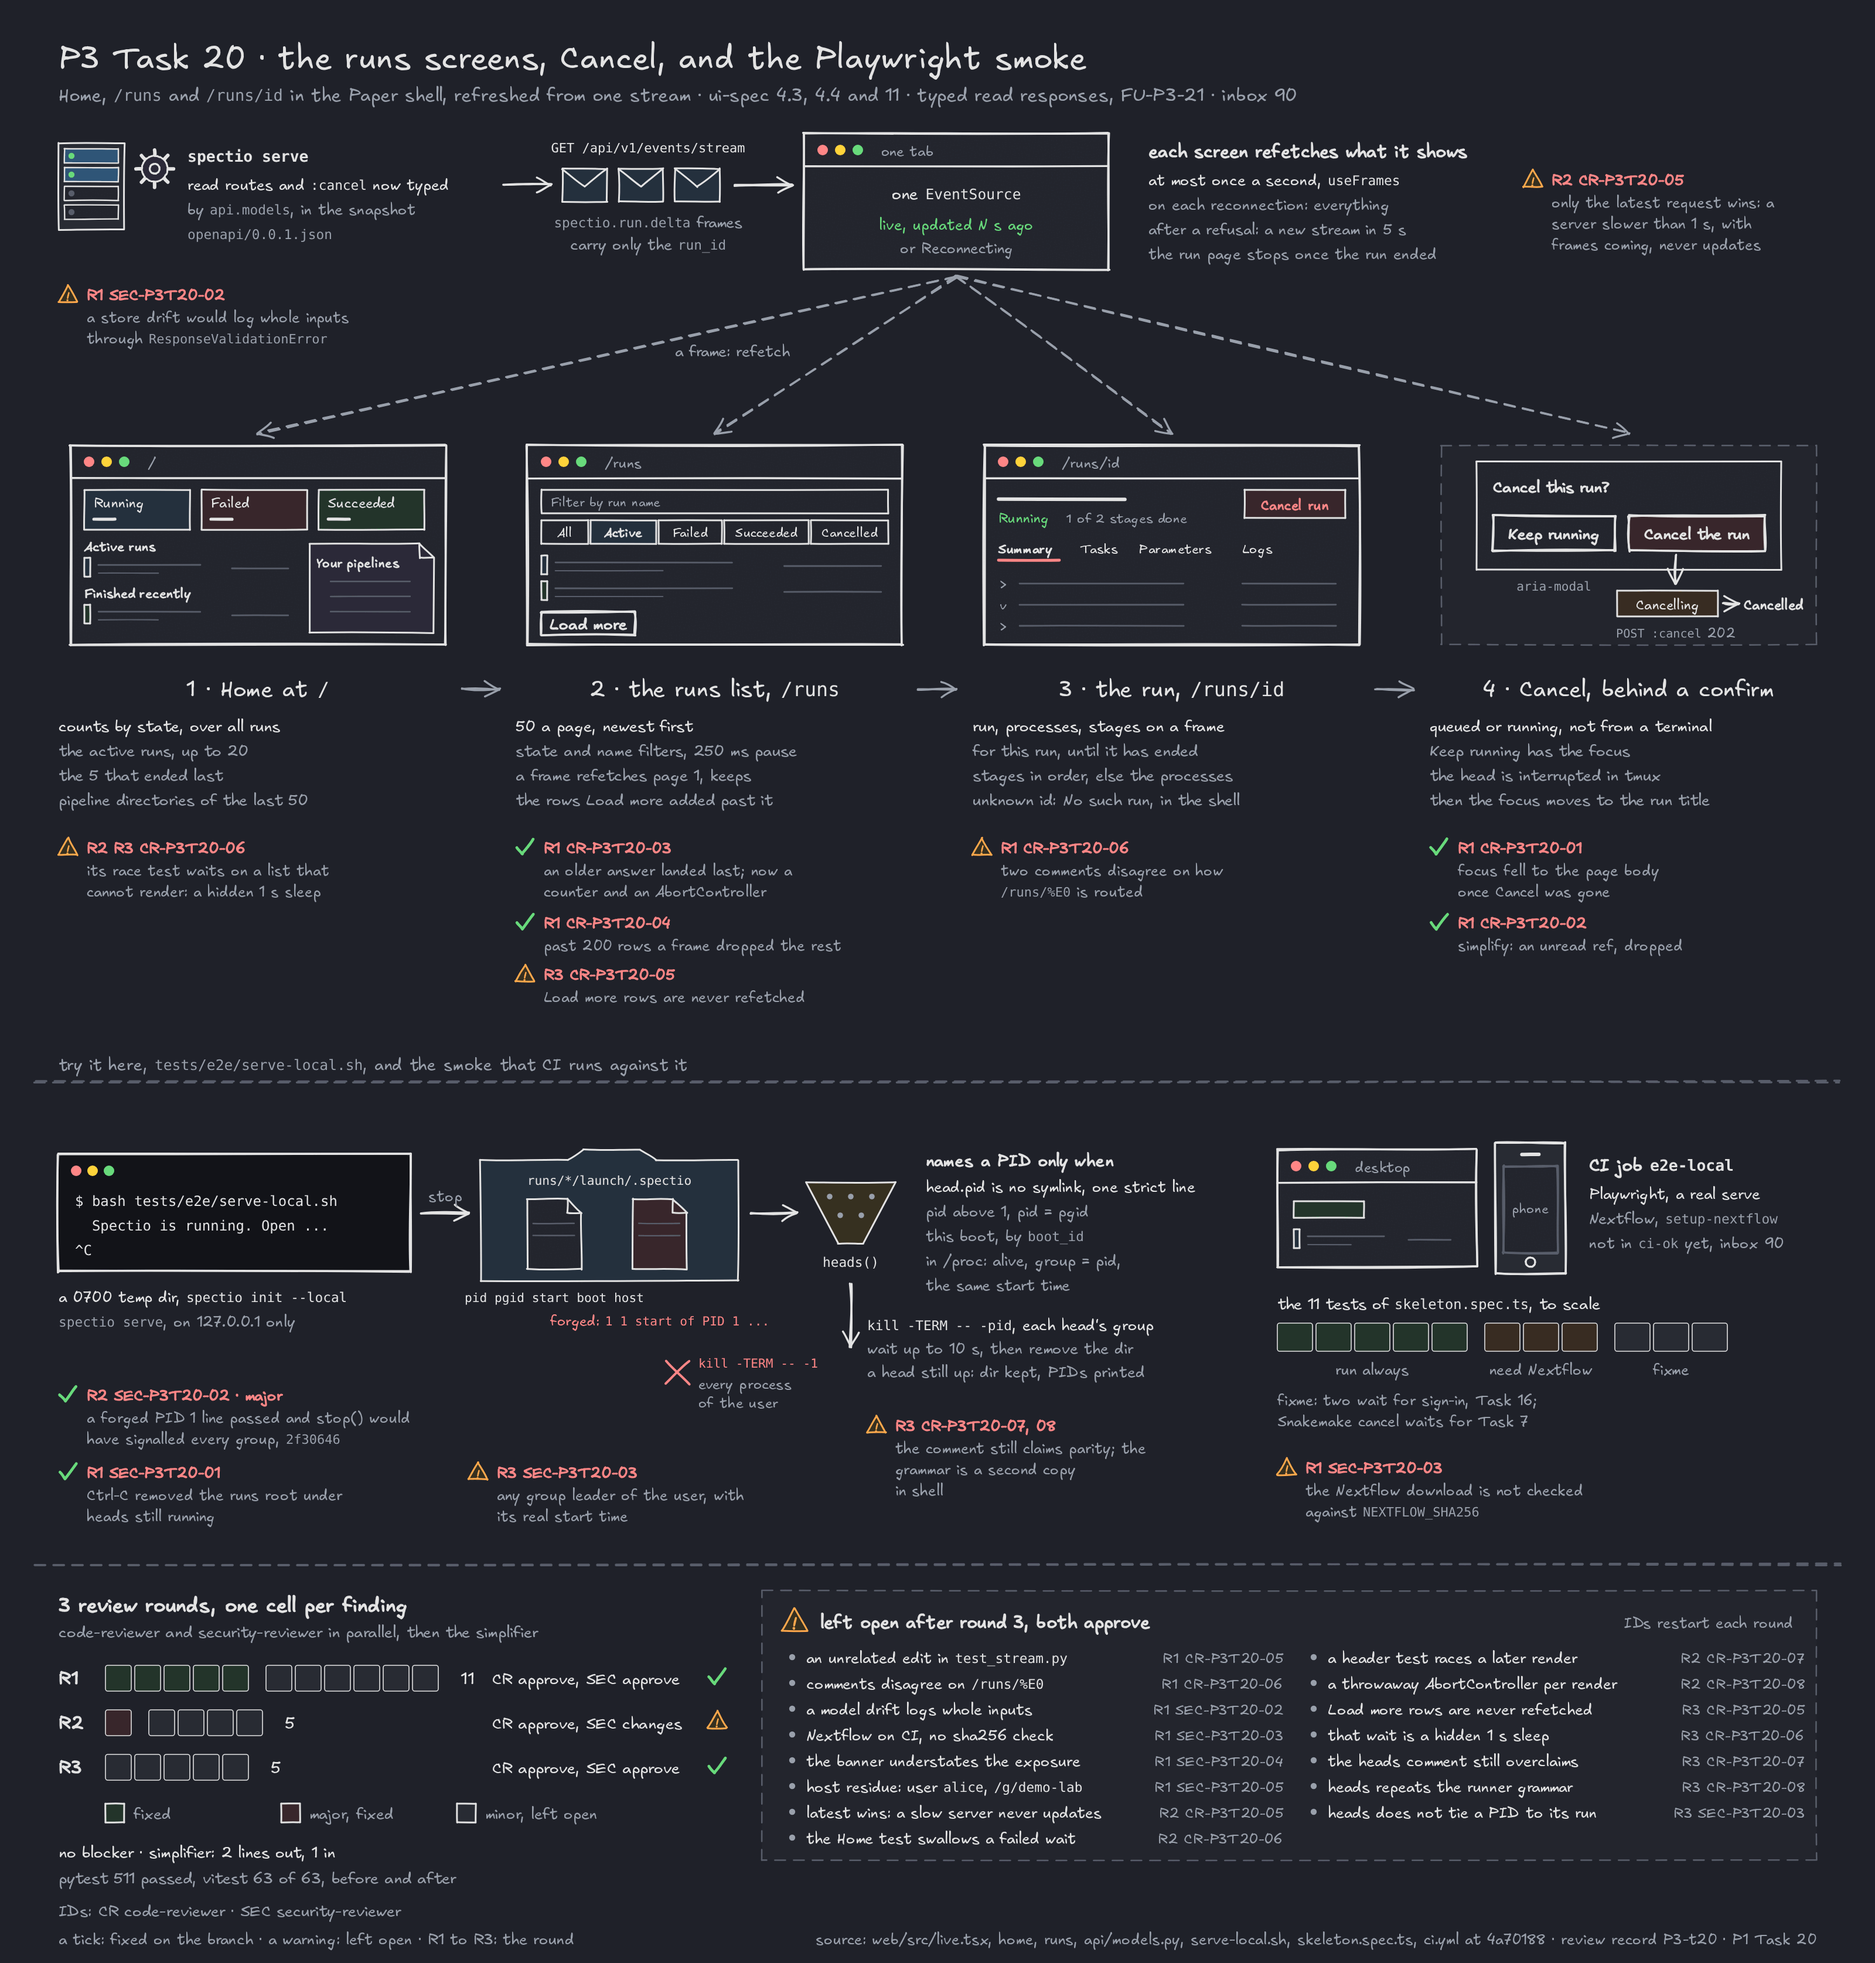
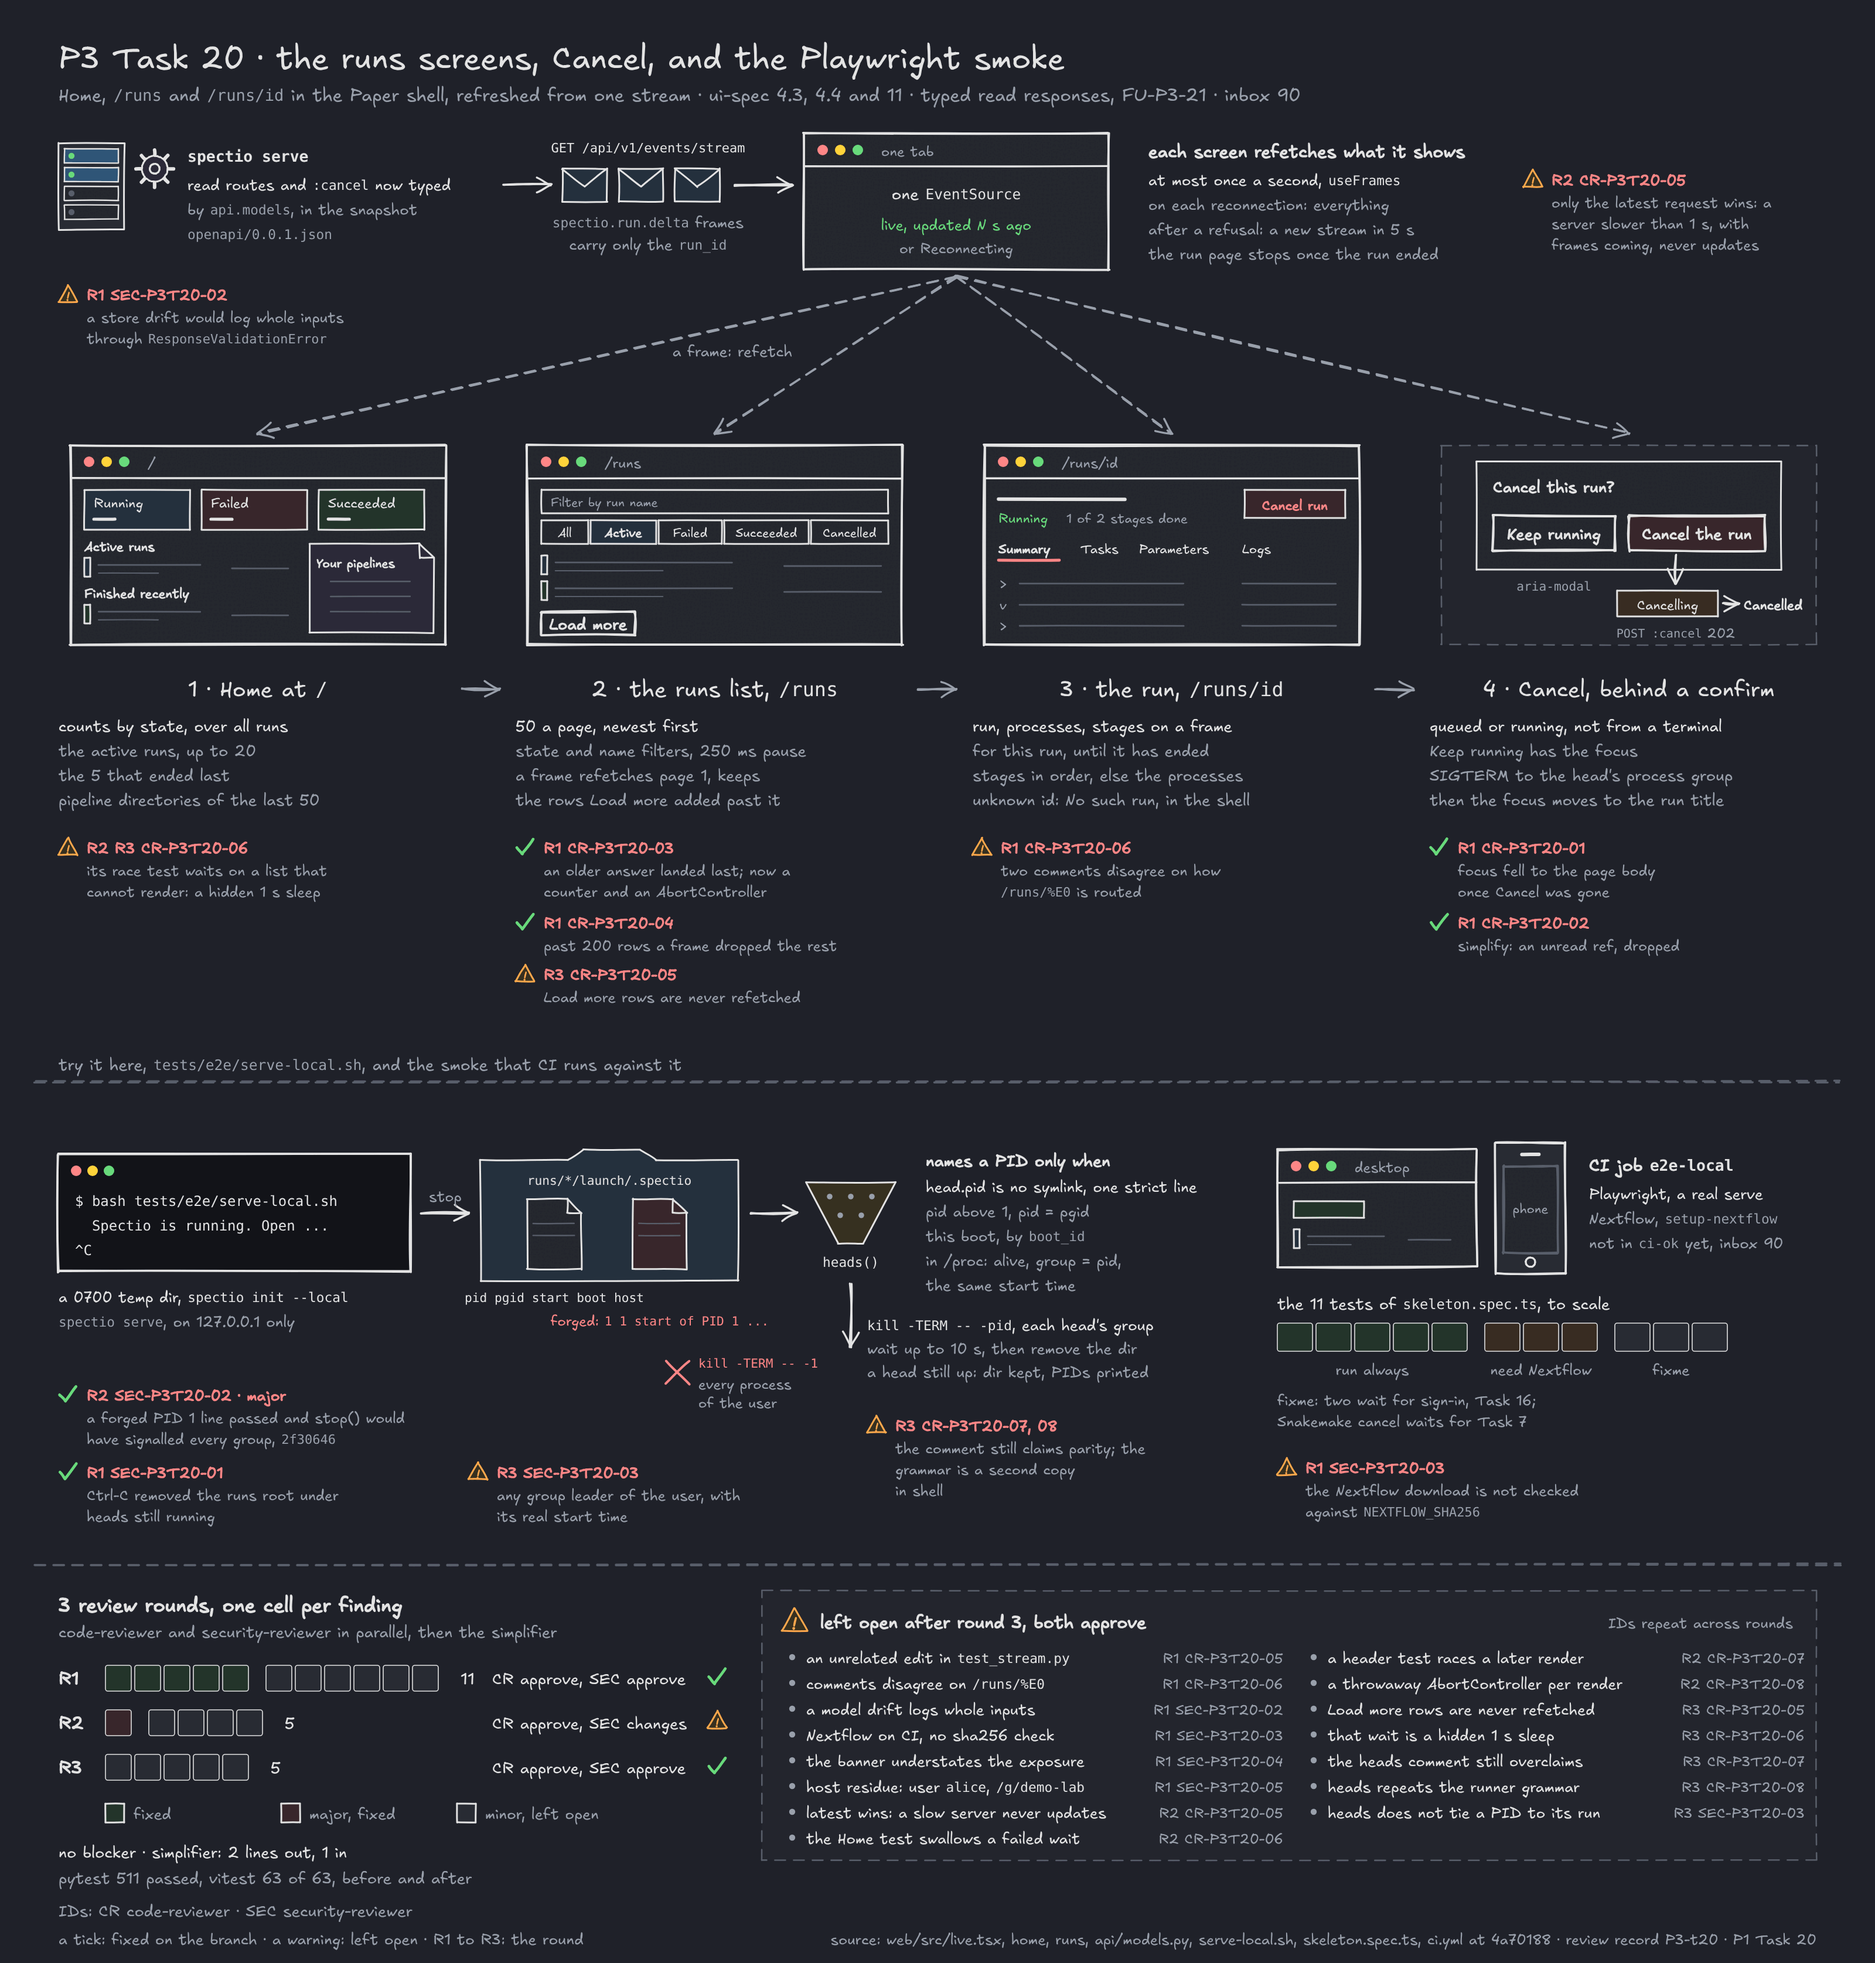
docs(P3-t20): doc-reviewer fixes: <host> in the transcript, SIGTERM in the figure, IDs repeat across rounds
Claude-Session: https://claude.ai/code/session_01MF8RxLfMAXBpezLW6Efe78

diff --git a/tools/diagrams/p3_t20_runs_screens.py b/tools/diagrams/p3_t20_runs_screens.py
@@ -36,7 +36,7 @@ Every fact comes from branch autopilot/P3-t20 at 4a70188 (base b0e2edf):
 - the review rounds, from the step's worker report of 2026-10-31 (review record P3-t20):
   R1 CR approve 01 to 06, SEC approve 01 to 05; fixed: CR-01, 03, 04, SEC-01 in e6dc116, CR-02 in
   4a70188. R2 CR approve 05 to 08, SEC changes with SEC-02 major; fixed: SEC-02 in 2f30646.
-  R3 CR approve 05 to 08, SEC approve 03; none fixed. IDs restart each round. Simplifier: 2 lines
+  R3 CR approve 05 to 08, SEC approve 03; none fixed. IDs repeat across rounds. Simplifier: 2 lines
   out, 1 in; pytest 511 passed, vitest 63 of 63, before and after.
 """
 
@@ -223,7 +223,7 @@ def build(theme: Theme) -> Sketch:
     s.text(bx + 200, by + 164, "`POST :cancel` 202", size=11.5, colour=t.dim)
     s.step(x + CW / 2, STEP, 4, "Cancel, behind a confirm")
     lines(s, x, TXT, ("queued or running, not from a terminal", "Keep running has the focus",
-                      "the head is interrupted in tmux", "then the focus moves to the run title"))
+                      "SIGTERM to the head's process group", "then the focus moves to the run title"))
     pin(s, x, PIN, "R1 CR-P3T20-01", ("focus fell to the page body", "once Cancel was gone"), fixed=True)
     pin(s, x, PIN + 64, "R1 CR-P3T20-02", ("simplify: an unread ref, dropped",), fixed=True)
 
@@ -329,7 +329,7 @@ def build(theme: Theme) -> Sketch:
     s.warning(bx + 28, LOW + 8, size=11)
     s.text(bx + 50, LOW + 14, "left open after round 3, both approve", size=15, anchor="start",
            weight="bold")
-    s.text(bx + bw - 20, LOW + 14, "IDs restart each round", size=12.5, anchor="end", colour=t.dim)
+    s.text(bx + bw - 20, LOW + 14, "IDs repeat across rounds", size=12.5, anchor="end", colour=t.dim)
     open_items = (
         ("an unrelated edit in `test_stream.py`", "R1 CR-P3T20-05"),
         ("comments disagree on `/runs/%E0`", "R1 CR-P3T20-06"),

diff --git a/docs/progress/W5/P3-M4.md b/docs/progress/W5/P3-M4.md
@@ -302,7 +302,7 @@ Branch `autopilot/P3-t20`, base `b0e2edf`, head `4a70188` before the figure and 
     - `api.ts` (+164): types and calls for the read routes, still hand-written; `api.test.ts` checks ten sample objects against the snapshot's schemas (#90 rule 8). `testing.tsx` (126 lines): shared fetch mocks. `test-setup.ts` stubs `window.scrollTo` (FU-P3-23).
 - **The smoke** (`tests/e2e/`, `298ccd6`, `e6dc116`, `2f30646`):
     - `skeleton.spec.ts` (198 lines): the seven tests of P1 Task 20 Step 1, plus a Nextflow cancel, a foreign `Host`, the page headers and a malformed run ID: 11 tests. Three are `test.fixme`: the two session tests (`TODO(P1 Task 16)`) and the Snakemake cancel (`TODO(P1 Task 7)`). Three need `SPECTIO_E2E_ENGINES=1`. `playwright.config.ts` adds the file to the `desktop` and `phone` projects.
-    - `serve-local.sh` (130 lines): `spectio init --local` in a fresh 0700 temporary directory, `spectio serve` in the foreground, `--port`; it builds `web/dist` when missing (`--ignore-scripts`) and `nf-spectio` when Nextflow is found. On exit it stops the server, then sends `SIGTERM` to the process group of each live head, waits up to 10 s, and removes the directory; if a head still runs it keeps the directory and prints the PIDs (SEC-P3T20-01). `heads()` names a PID only from a strict `head.pid` line that matches a live group leader on this boot (SEC-P3T20-02).
+    - `serve-local.sh` (130 lines): `spectio init --local` in a fresh 0700 temporary directory, `spectio serve` in the foreground, `--port`; it builds `web/dist` when missing (`--ignore-scripts`) and `nf-spectio` when Nextflow is found. On exit it stops the server, then sends `SIGTERM` to the process group of each live head, waits up to 10 s, and removes the directory; if a head still runs it keeps the directory and prints the PIDs (SEC-P3T20-01 (r1)). `heads()` names a PID only from a strict `head.pid` line that matches a live group leader on this boot (SEC-P3T20-02 (r2)).
 - **CI:** job `e2e-local` in `.github/workflows/ci.yml`: Node, uv and `nf-core/setup-nextflow` at the `dev/versions.env` pins, the workspace, `web/dist` and Chromium, then `serve-local.sh --port 8765` and the smoke on both projects with engines on. Report and server log go to the `e2e-local-report` artifact (14 days). It is **not** in `ci-ok`'s `needs` (#90 rule 4).
 - **Media:** `live.js` expands `$VARS` in a shot's route; `shots.py` gains `app-home`, `app-runs`, `app-run-detail` and `app-run-detail-phone`, light only; `tools/media/README.md` says what the live shots need (`0cceb8f`).
 - **Tests:** `packages/spectio-server/tests/api/`: `test_openapi.py` +3 tests (response models, `info.version`, enums match the store), `test_read.py` +1 (one-ID cursor), `test_web.py` +1 (`HEAD`); `packages/spectio/tests/test_serve_local.py` (2 tests, new). `web/src/`: 5 new test files, 39 new tests (63 in all, 10 files).
@@ -994,7 +994,7 @@ $ git diff --stat b0e2edf 4a70188 | tail -1
 
 `d12a0e2` and `f59a374` carry `Release-As: 0.0.1`.
 
-**The exit check, re-run** by `doc-writer` on the code head `4a70188` (P1 Task 20 Step 4: the smoke on the desktop and phone projects of T6). The server is `serve-local.sh` from the worktree; Nextflow is the pinned 26.10.4 copy at `/g/demo-lab/bin/nextflow`, which the worker left on this host (SEC-P3T20-05) and whose hash was checked first. This session has no Snakemake. The temporary directory is shown as `$TMP/spectio-local.XXXXXX`; uvicorn's lines and uv's `UV_NATIVE_TLS` warning are left out.
+**The exit check, re-run** by `doc-writer` on the code head `4a70188` (P1 Task 20 Step 4: the smoke on the desktop and phone projects of T6). The server is `serve-local.sh` from the worktree; Nextflow is the pinned 26.10.4 copy at `/g/demo-lab/bin/nextflow`, which the worker left on this host (SEC-P3T20-05) and whose hash was checked first. This session has no Snakemake. The temporary directory is shown as `$TMP/spectio-local.XXXXXX`, and the capture host's name as `<host>`; uvicorn's lines and uv's `UV_NATIVE_TLS` warning are left out.
 
 ```console
 $ sha256sum /g/demo-lab/bin/nextflow; grep NEXTFLOW_SHA256 dev/versions.env
@@ -1006,7 +1006,7 @@ $ SPECTIO_ENGINES_NEXTFLOW_CMD=/g/demo-lab/bin/nextflow bash tests/e2e/serve-loc
 warning: snakemake not found on the login shell's PATH: give it with --snakemake
 Wrote $TMP/spectio-local.XXXXXX/data/spectio.toml; database in $TMP/spectio-local.XXXXXX/db; runs under $TMP/spectio-local.XXXXXX/runs; port 18122
 == spectio serve
-Spectio 0.0.1 is running on vm, port 18122.
+Spectio 0.0.1 is running on <host>, port 18122.
 
   Spectio is running. Open http://127.0.0.1:18122/
   Runs go under $TMP/spectio-local.XXXXXX/runs. No sign-in link yet: the server answers on 127.0.0.1 only.
@@ -1054,7 +1054,7 @@ HEAD /launch 200
 HEAD /nope 404
 ```
 
-**SEC-P3T20-02, test-first,** re-checked by `doc-writer`. The new test passes on `4a70188`; run against the `heads()` of `e6dc116` (before the fix, through the test module with `heads_function` swapped), it fails, and that `heads()` names PID 1 for a forged line:
+**SEC-P3T20-02 (r2), test-first,** re-checked by `doc-writer`. The new test passes on `4a70188`; run against the `heads()` of `e6dc116` (before the fix, through the test module with `heads_function` swapped), it fails, and that `heads()` names PID 1 for a forged line:
 
 ```console
 $ uv run --locked pytest packages/spectio/tests/test_serve_local.py -v
@@ -1139,7 +1139,7 @@ Seven more than after G4 (504): three in `test_openapi.py`, one each in `test_re
 **Review** ([record](../../reviews/code/P3-t20.md)):
 
 - Round 1, on `0cceb8f`: `code-reviewer` **approve** (5 minors, 1 simplify), `security-reviewer` **approve** (5 minors). Fixed in `e6dc116`: focus lost after a confirmed Cancel (CR-P3T20-01); an older runs response could overwrite a newer one (CR-P3T20-03); a frame dropped the rows Load more added past 200 (CR-P3T20-04); Ctrl-C removed the runs root under heads still running (SEC-P3T20-01).
-- Round 2, on `e6dc116`: `code-reviewer` **approve** (3 minors, 1 simplify), `security-reviewer` **changes** (1 major). The major, SEC-P3T20-02: a forged `head.pid` could make `stop()` run `kill -TERM -- -1`. Fixed in `2f30646`.
+- Round 2, on `e6dc116`: `code-reviewer` **approve** (3 minors, 1 simplify), `security-reviewer` **changes** (1 major). The major, SEC-P3T20-02 (r2): a forged `head.pid` could make `stop()` run `kill -TERM -- -1`. Fixed in `2f30646`.
 - Round 3, on `2f30646`: both **approve** (4 and 1 minors).
 - `code-simplifier`: `4a70188` drops the unread `cancelButton` ref (CR-P3T20-02, round 1); it left CR-P3T20-08 (round 2) alone.
 - Open: see [Findings and open questions](#findings-and-open-questions).
@@ -1148,7 +1148,7 @@ Seven more than after G4 (504): three in `test_openapi.py`, one each in `test_re
 CODE  step=P3-t20  review=approve b/M/m=0/0/12  security=approve b/M/m=0/1/6  rounds=3  simplify=changed -2/+1  tests=pass
 ```
 
-The counts add up the three rounds per reviewer; the two `simplify` findings are not counted. Finding IDs restart in each round, so this page writes the round after an ID that repeats: CR-P3T20-05 (r1), (r2) and (r3) are three different findings.
+The counts add up the three rounds per reviewer; the two `simplify` findings are not counted. Finding IDs repeat across rounds, so this page writes the round after an ID that repeats: CR-P3T20-05 (r1), (r2) and (r3) are three different findings.
 
 **Exit check.** P1 Task 20's Step 4 passes: the smoke on the desktop and phone projects, 16 passed and 6 `fixme` skipped, above; the boards were compared by eye.
 
@@ -1200,7 +1200,7 @@ The counts add up the three rounds per reviewer; the two `simplify` findings are
 - **`p3-t20-runs-screens` sketch, Task 20,** light and dark, first at the top of this page. It is drawn by `diagram-artist` with `python3 tools/diagrams/p3_t20_runs_screens.py` (commit `c3129be`), from `web/src/live.tsx`, the Home, runs and run pages, `api/models.py`, `serve-local.sh`, `skeleton.spec.ts` and `ci.yml` at `4a70188`, and the review record. It shows:
     - the one stream and what each screen refetches on a frame;
     - the four screens (Home, the list, the run, Cancel behind its confirm), with each review finding pinned where it hits;
-    - `serve-local.sh` and what `heads()` checks before `stop()` signals a group, with the forged PID 1 line of SEC-P3T20-02;
+    - `serve-local.sh` and what `heads()` checks before `stop()` signals a group, with the forged PID 1 line of SEC-P3T20-02 (r2);
     - the 11 smoke tests to scale (5 always, 3 with Nextflow, 3 `fixme`) and the CI job;
     - the three review rounds to scale, one cell per finding, and what is left open after round 3.
 - **Screenshots, Task 20:** `app-home` and `app-runs` (1440 × 1000), `app-run-detail` (1440 × 1180) and `app-run-detail-phone` (390 × 844), taken by the worker from a `spectio serve` run as the demo account `alice` on the node name `login1`, after runs of the synthetic pipeline. They are light only: the manifest entries say `--theme light`, so the dark twins of the app shots (§5.1 of the [documentation system](../../specs/documentation-system.md#51-screenshots)) are still to make (follow-up FU-P3-24). `doc-writer` looked at each: demo names only (`alice`, `login1`, `/g/demo-lab`).
@@ -1318,7 +1318,7 @@ The counts add up the three rounds per reviewer; the two `simplify` findings are
 4. **Still to the next `/apply-findings`:** UX-G1-09. ui-spec §2 and §4.11 put the phone colour mode in More; the G1 boards and G4 put the theme switch in the phone top bar.
 5. **For the next `/apply-findings` pass:** P2 §10.5's interface, in the table [Differences from the plan's interface (G4)](#differences-from-the-plans-interface-g4).
 
-**Task 20** ([record](../../reviews/code/P3-t20.md)): every finding not fixed in the branch, with its owner. IDs restart each round, so the round follows each ID.
+**Task 20** ([record](../../reviews/code/P3-t20.md)): every finding not fixed in the branch, with its owner. IDs repeat across rounds, so the round follows each ID.
 
 | Id | What | Goes to |
 |---|---|---|
